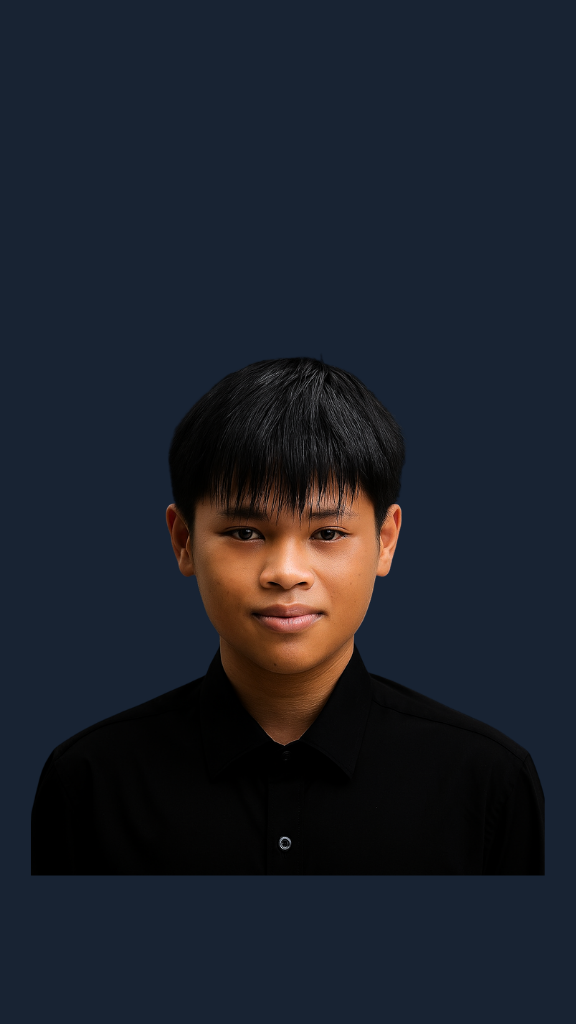
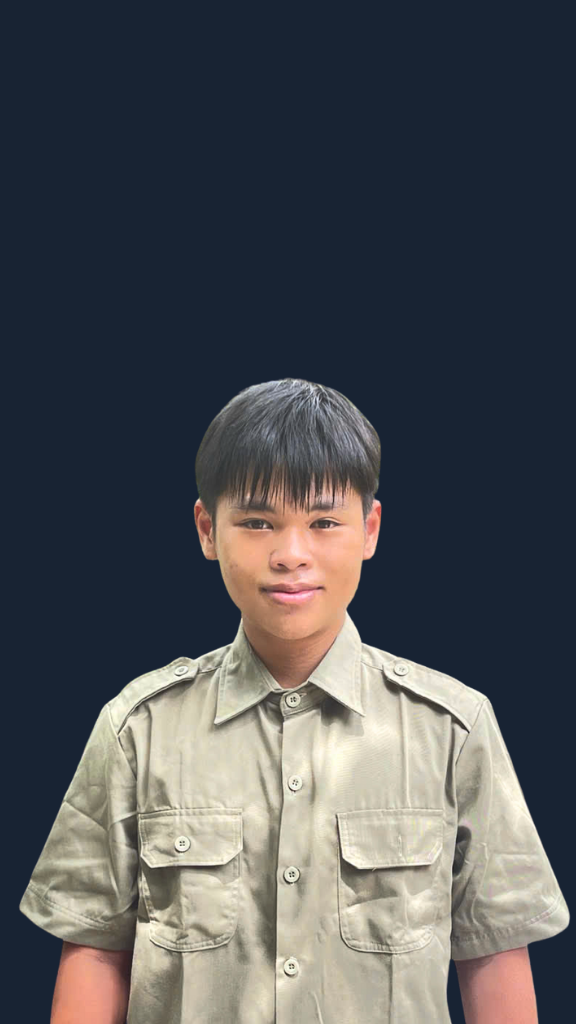
Fix: LeaderPage

diff --git a/src/components/LeaderPage/EngineererSection.tsx b/src/components/LeaderPage/EngineererSection.tsx
@@ -1,0 +1,126 @@
+import { useEffect, useState } from "react";
+import AOS from "aos";
+import "aos/dist/aos.css";
+import { engineerers, Engineer } from "../../data/EngineererData";
+
+export default function LeaderSection() {
+  const [selectedEngineer, setSelectedEngineer] = useState<Engineer | null>(
+    null
+  );
+
+  useEffect(() => {
+    AOS.init({ duration: 1000, once: true });
+
+    const handleEsc = (e: KeyboardEvent) => {
+      if (e.key === "Escape") {
+        setSelectedEngineer(null);
+      }
+    };
+
+    window.addEventListener("keydown", handleEsc);
+    return () => window.removeEventListener("keydown", handleEsc);
+  }, []);
+
+  return (
+    <section className="px-4 py-2 lg:px-24 bg-texture-bg bg-texture-pattern bg-[length:8px_8px]">
+      {/* Tiêu đề */}
+      <section className="text-[#041E42] w-full px-6 md:px-20 text-center md:pb-10">
+        <h2
+          className="md:mt-8 font-inter font-bold text-[36px] uppercase text-center mb-[30px]"
+          data-aos="fade-up"
+        >
+          ĐỘI NGŨ KỸ SƯ
+        </h2>
+        <span
+          className="block w-16 h-1 bg-[#CBA052] mx-auto mb-14 md:mb-10 rounded"
+          data-aos="fade-up"
+          data-aos-delay="100"
+        />
+      </section>
+
+      {/* Danh sách kỹ sư */}
+      <div className="grid grid-cols-1 sm:grid-cols-2 md:grid-cols-1 gap-12 max-w-xs mx-auto mb-10 px-6">
+        {engineerers.map((engineer, index) => (
+          <div
+            key={index}
+            className="text-center cursor-pointer group"
+            onClick={() => setSelectedEngineer(engineer)}
+            data-aos="fade-up"
+            data-aos-delay={`${index * 100}`}
+          >
+            <div className="overflow-hidden rounded shadow transition group-hover:scale-105 group-hover:shadow-xl">
+              <img
+                src={engineer.image}
+                alt={engineer.name}
+                className="w-full h-56 object-cover transition-transform duration-300 group-hover:scale-110"
+              />
+            </div>
+            <h3 className="font-semibold text-[#041E42] mt-4">
+              {engineer.name}
+            </h3>
+            <p className="text-sm text-[#041E42] mt-1">{engineer.title}</p>
+            <div className="mt-4 h-0.5 bg-[#041E42] w-12 group-hover:w-full transition-all duration-300 mx-auto origin-left" />
+          </div>
+        ))}
+      </div>
+
+      {/* Modal chi tiết kỹ sư */}
+      {selectedEngineer && (
+        <div
+          className="flex fixed inset-0 bg-black/40 backdrop-blur-sm items-center justify-center z-50"
+          onClick={(e) => {
+            if (e.target === e.currentTarget) setSelectedEngineer(null);
+          }}
+        >
+          <div
+            className="bg-white p-6 rounded-xl max-w-md w-[90%] relative shadow-2xl border border-gray-200 animate-fadeIn"
+            onClick={(e) => e.stopPropagation()}
+          >
+            <div className="absolute -top-4 left-4 bg-[#0f172a] text-white text-sm font-bold px-3 py-1 rounded-full shadow">
+              #{engineerers.findIndex((e) => e === selectedEngineer) + 1}
+            </div>
+
+            <button
+              onClick={() => setSelectedEngineer(null)}
+              className="absolute top-1 right-2 text-gray-500 hover:text-red-500 text-2xl transition-colors"
+              aria-label="Close"
+            >
+              &times;
+            </button>
+
+            <div className="w-full aspect-square mb-4 rounded-lg overflow-hidden border shadow-md">
+              <img
+                src={selectedEngineer.image}
+                alt={selectedEngineer.name}
+                className="w-full h-full object-cover"
+              />
+            </div>
+
+            <h2 className="text-2xl font-semibold text-gray-800 mb-1">
+              {selectedEngineer.name}
+            </h2>
+            <p className="text-sm text-gray-600 mb-3 italic">
+              {selectedEngineer.title}
+            </p>
+            <p className="text-sm text-gray-700 leading-relaxed whitespace-pre-line mb-4">
+              {selectedEngineer.description}
+            </p>
+
+            {selectedEngineer.highlights?.length > 0 && (
+              <>
+                <p className="text-base font-medium text-gray-800 mt-6 mb-2">
+                  Điểm nổi bật:
+                </p>
+                <ul className="text-sm text-gray-700 space-y-2 list-disc list-inside">
+                  {selectedEngineer.highlights.map((item, idx) => (
+                    <li key={idx}>{item}</li>
+                  ))}
+                </ul>
+              </>
+            )}
+          </div>
+        </div>
+      )}
+    </section>
+  );
+}

diff --git a/vite.config.ts b/vite.config.ts
@@ -1,27 +1,10 @@
-// scripts/generate-sitemap.ts
 import fs from "fs";
 import path from "path";
-import { productSlugMap } from "../JPTechLift_Project/src/constants/productSlugMap"; // ✅ dùng import
+import { productSlugMap } from "./src/constants/productSlugMap";
 
 const hostname = "https://thangmaysaigonjptechlift.com";
 
-const staticRoutes = [
-  "/",
-  "/gioi-thieu",
-  "/gioi-thieu/ban-lanh-dao",
-  "/gioi-thieu/nguyen-tac",
-  "/gioi-thieu/quy-trinh-du-an",
-  "/tin-tuc-thang-may",
-  "/blog-thang-may",
-  "/lien-he",
-  "/dich-vu-thang-may",
-  "/dich-vu-thang-may/lap-dat-thang-may",
-  "/dich-vu-thang-may/tu-van-thiet-ke",
-  "/dich-vu-thang-may/bao-tri-thang-may",
-  "/dich-vu-thang-may/huong-dan-van-hanh",
-  "/dich-vu-thang-may/cai-tao-sua-chua",
-];
-
+const staticRoutes = [ /* ... */ ];
 const productRoutes = Object.values(productSlugMap).map(
   (slug) => `/san-pham/${slug}`
 );
@@ -30,17 +13,16 @@ const allRoutes = [...staticRoutes, ...productRoutes];
 
 const sitemap = `<?xml version="1.0" encoding="UTF-8"?>
 <urlset xmlns="http://www.sitemaps.org/schemas/sitemap/0.9">
-${allRoutes
-  .map(
-    (route) => `
+${allRoutes.map(route => `
   <url>
     <loc>${hostname}${route}</loc>
     <changefreq>monthly</changefreq>
     <priority>0.8</priority>
-  </url>`
-  )
-  .join("")}
+  </url>`).join("")}
 </urlset>`;
 
-fs.writeFileSync(path.resolve("dist", "sitemap.xml"), sitemap);
+const distPath = path.resolve("dist");
+if (!fs.existsSync(distPath)) fs.mkdirSync(distPath, { recursive: true });
+
+fs.writeFileSync(path.join(distPath, "sitemap.xml"), sitemap);
 console.log("✅ sitemap.xml generated");

diff --git a/src/data/LeaderData.ts b/src/data/LeaderData.ts
@@ -2,7 +2,6 @@
 import ThomasEaton from "../assets/images/leaders/ThomasEaton.png";
 import VuNgocMinhTuyet from "../../src/assets/images/leaders/VuNgocMinhTuyet.png";
 import AnhKhoa from "../../src/assets/images/leaders/AnhKhoa.png";
-import MinhKhoi from "../../src/assets/images/leaders/MinhKhoi.png";
 
 export interface Leader {
   name: string;
@@ -31,11 +30,5 @@ export const leaders: Leader[] = [
     title: "Investor & Medical Safety Advisor",
     image: AnhKhoa,
     description: "Chuyên gia cố vấn tiêu chuẩn an toàn vận hành thang máy JP TechLift từ góc nhìn y khoa và sức khỏe cộng đồng.",
-  },
-  {
-    name: "Minh Khôi",
-    title: "Maintenance Electrical Engineer",
-    image: MinhKhoi,
-    description:"Kiểm tra định kỳ, khắc phục sự cố điện, hỗ trợ lắp đặt và cải tiến hệ thống điều khiển thang máy",
   },
 ];

diff --git a/src/pages/LeaderPage.tsx b/src/pages/LeaderPage.tsx
@@ -4,6 +4,7 @@ import HeroFooter from "../components/Footer/HeroFooter";
 import bannerImg from "../assets/images/Banner-Leadership.png";
 import Footer from "../components/Footer/Footer";
 import SEO from "../components/SEO";
+import EngineerSection from "../components/LeaderPage/EngineererSection"
 
 const LeaderPage = () => {
   return (
@@ -15,6 +16,7 @@ const LeaderPage = () => {
       />
       <HeaderWithBanner banner={bannerImg} title="ĐỘI NGŨ LÃNH ĐẠO" />
       <LeaderSection />
+      <EngineerSection />
       <HeroFooter />
       <Footer />
     </div>

diff --git a/src/data/EngineererData.ts b/src/data/EngineererData.ts
@@ -1,0 +1,19 @@
+import MinhKhoi from "../../src/assets/images/leaders/MinhKhoi.png";
+
+export interface Engineer {
+  name: string;
+  title: string;
+  image: string;
+  description?: string;
+  highlights?: string[];
+}
+
+export const engineerers: Engineer[] = [
+  {
+    name: "Minh Khôi",
+    title: "Maintenance Electrical Engineer",
+    image: MinhKhoi,
+    description:
+      "Kiểm tra định kỳ, khắc phục sự cố điện, hỗ trợ lắp đặt và cải tiến hệ thống điều khiển thang máy",
+  },
+];

diff --git a/src/components/LeaderPage/LeaderSection.tsx b/src/components/LeaderPage/LeaderSection.tsx
@@ -57,7 +57,7 @@ export default function LeaderSection() {
       </section>
 
       {/* Danh sách leader */}
-      <div className="grid grid-cols-1 sm:grid-cols-2 md:grid-cols-4 gap-12 max-w-6xl mx-auto mb-10 px-6">
+      <div className="grid grid-cols-1 sm:grid-cols-2 md:grid-cols-3 gap-12 max-w-4xl mx-auto mb-10 px-6">
         {leaders.map((leader, index) => (
           <div
             key={index}

diff --git a/dist-script/generate-sitemap.js b/dist-script/generate-sitemap.js
@@ -31,7 +31,7 @@ var staticRoutes = [
 var productSlugs = [
     'thang-may-gia-dinh',
     'thang-tai-thuc-pham',
-    'thang-tai-hang',
+    'thang-may-tai-hang',
     'thang-may-hanh-khach',
     'thang-may-benh-vien',
     'thang-truot-thang-cuon',
